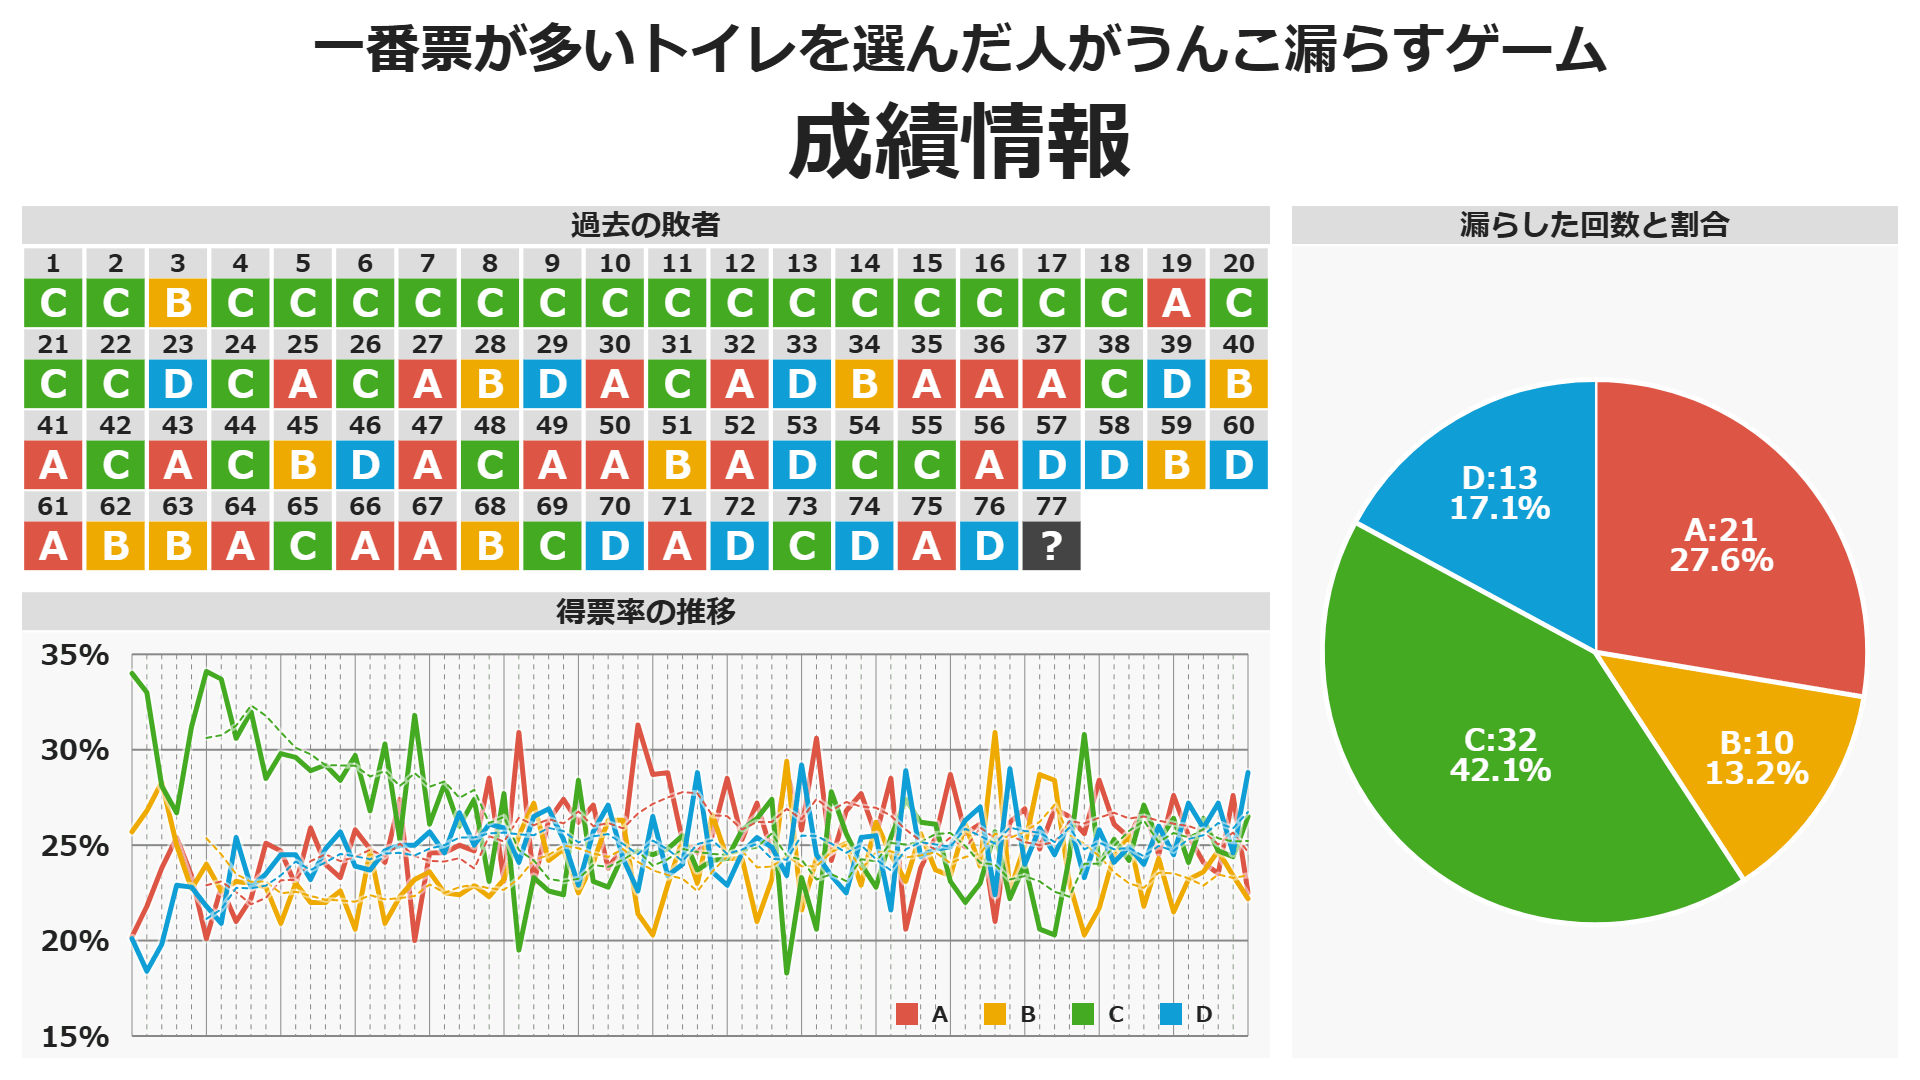
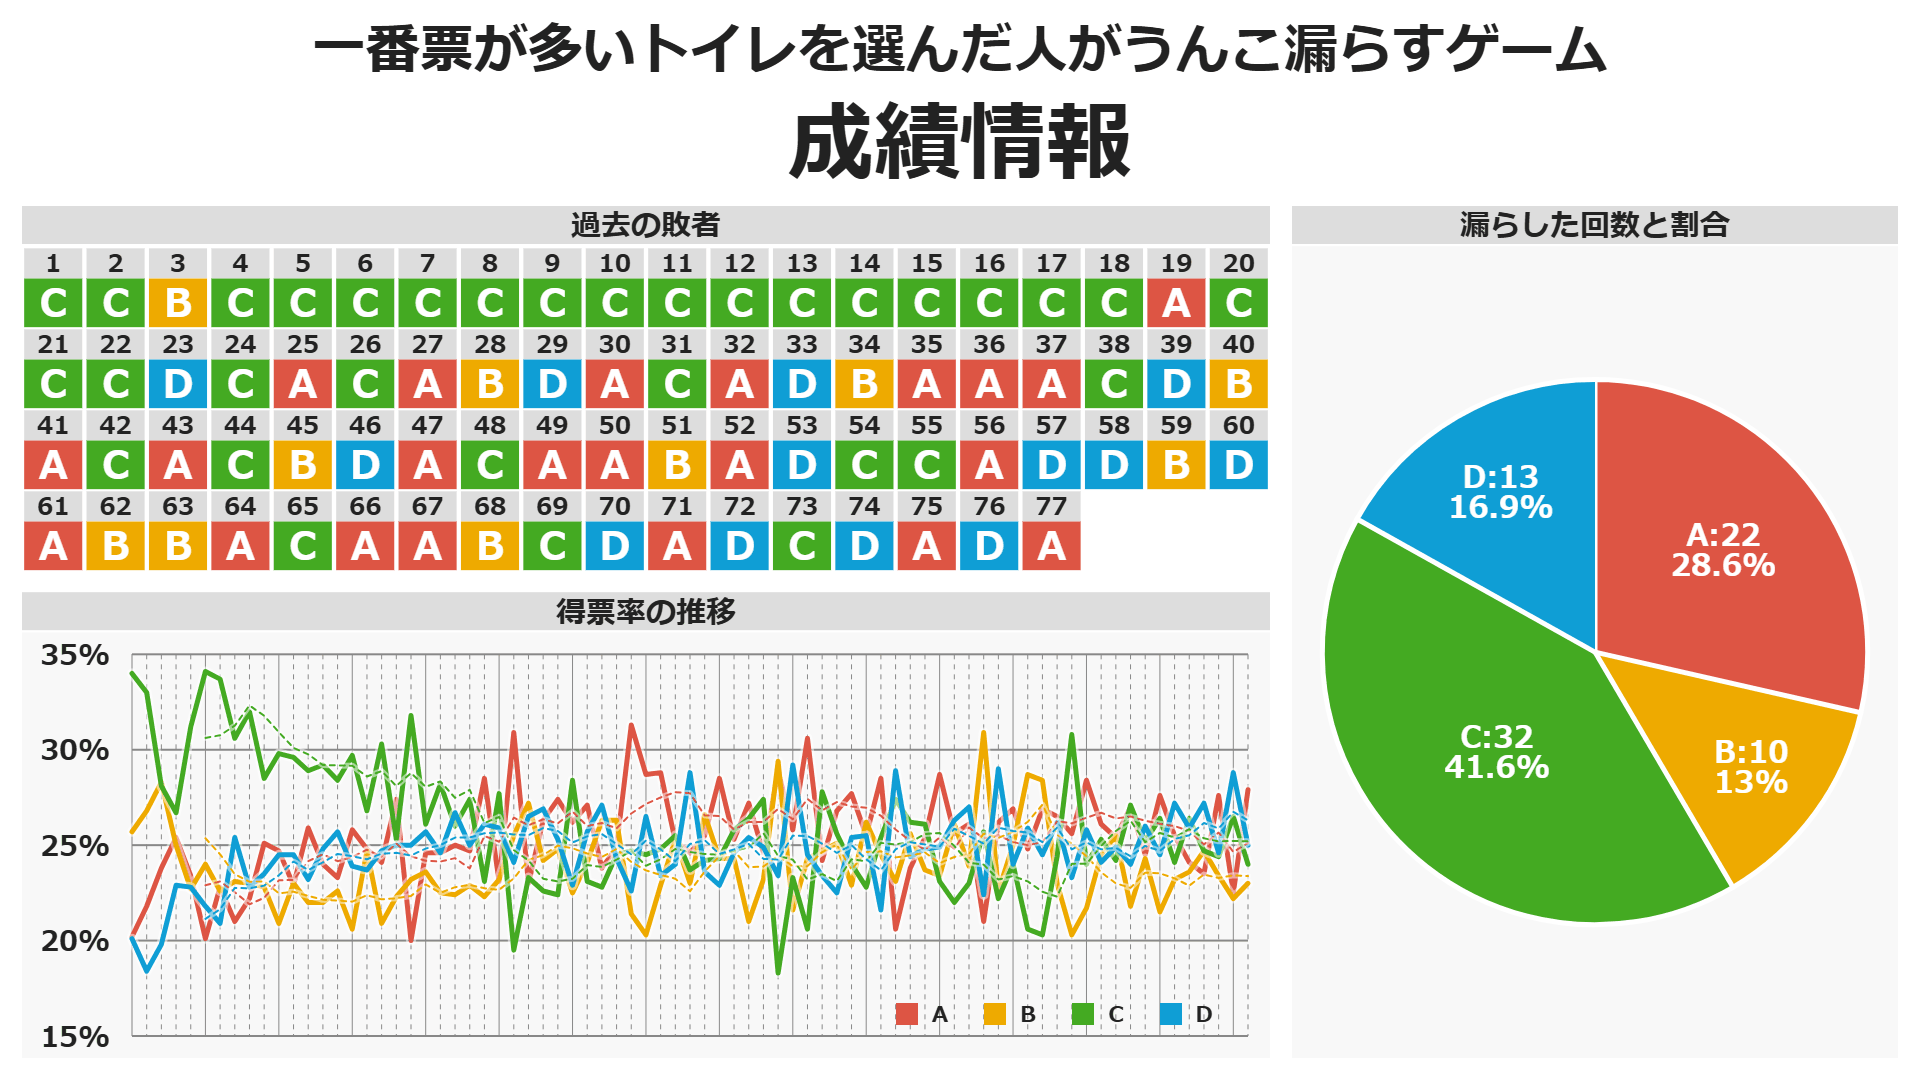
update

diff --git a/docs/index.html b/docs/index.html
@@ -12,7 +12,7 @@
     <meta property="og:url" content="https://shapoco.github.io/toilet-game/" />
     <meta property="og:title" content="4択トイレゲーム" />
     <meta property="og:description" content="一番票が多いトイレを選んだ人がうんこ漏らすゲーム" />
-    <meta property="og:image" content="https://shapoco.github.io/toilet-game/cover.png?20250510171800" />
+    <meta property="og:image" content="https://shapoco.github.io/toilet-game/cover.png?20250511205100" />
     
     <link rel="icon" href="https://shapoco.github.io/favicon192.png" sizes="192x192">
     <link rel="apple-touch-icon" href="https://shapoco.github.io/apple-touch-icon180.png" sizes="180x180">
@@ -36,8 +36,8 @@
     <style>
     </style>
     
-    <link rel="stylesheet" href="./style.css?20250510171800">
-    <script src="./toilet_game.js?20250510171800"></script>
+    <link rel="stylesheet" href="./style.css?20250511205100">
+    <script src="./toilet_game.js?20250511205100"></script>
 
     <title>4択トイレゲーム</title>
   </head>

diff --git a/docs/work.html b/docs/work.html
@@ -12,7 +12,7 @@
     <meta property="og:url" content="https://shapoco.github.io/toilet-game/" />
     <meta property="og:title" content="4択トイレゲーム" />
     <meta property="og:description" content="一番票が多いトイレを選んだ人がうんこ漏らすゲーム" />
-    <meta property="og:image" content="https://shapoco.github.io/toilet-game/cover.png?20250510171800" />
+    <meta property="og:image" content="https://shapoco.github.io/toilet-game/cover.png?20250511205100" />
     
     <link rel="icon" href="https://shapoco.github.io/favicon192.png" sizes="192x192">
     <link rel="apple-touch-icon" href="https://shapoco.github.io/apple-touch-icon180.png" sizes="180x180">
@@ -33,8 +33,8 @@
       }
     </script>
 
-    <link rel="stylesheet" href="./style.css?20250510171800">
-    <script src="./toilet_game.js?20250510171800"></script>
+    <link rel="stylesheet" href="./style.css?20250511205100">
+    <script src="./toilet_game.js?20250511205100"></script>
 
     <title>4択トイレゲーム</title>
   </head>

diff --git a/docs/toilet_game.js b/docs/toilet_game.js
@@ -77,7 +77,7 @@ const DB = [
   { date: '2025-04-13', total: 598, percent: [24.1, 23.6, 26.4, 25.9], url: 'https://x.com/shapoco/status/1911189545175122295' },
   { date: '2025-04-19', total: 507, percent: [23.5, 24.7, 24.7, 27.2], url: 'https://x.com/shapoco/status/1913457009711874328' },
   { date: '2025-04-26', total: 427, percent: [27.6, 23.4, 24.4, 24.6], url: 'https://x.com/shapoco/status/1915950318497726670' },
-  { date: '2025-05-03', total: 555  , percent: [22.5, 22.2, 26.5, 28.8], url: 'https://x.com/shapoco/status/1918538250576380238' },
-  { date: '2025-05-10', total: 0, percent: null, url: null },
+  { date: '2025-05-03', total: 555, percent: [22.5, 22.2, 26.5, 28.8], url: 'https://x.com/shapoco/status/1918538250576380238' },
+  { date: '2025-05-10', total: 551, percent: [27.9, 23, 24, 25], url: 'https://x.com/shapoco/status/1921118652474052842' },
   //{ date: '2025-xx-xx', total: 0, percent: null, url: null },
 ];
